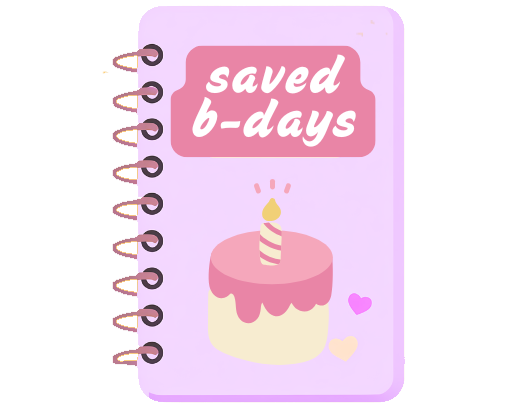
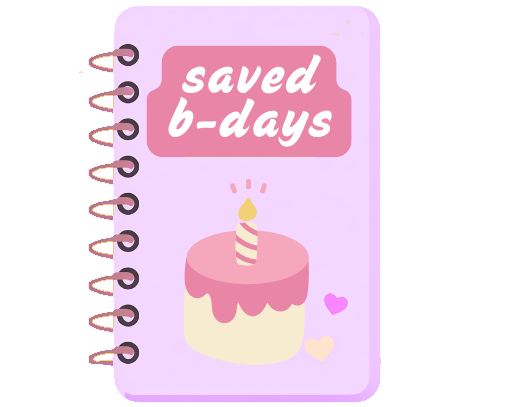
debugging bitmapicon for second-CTKinter window

Changed region(s): [[0.1547, 0.0, 0.8046, 1.0]]

diff --git a/main.py b/main.py
@@ -7,8 +7,9 @@ ver = "0.1.1.12"
 #====================IMPORTS:
 from tkinter import *
 import customtkinter
-from PIL import Image
-from customtkinter import CTkLabel
+#----UIs:
+from PIL import Image, ImageTk
+from customtkinter import CTkLabel, CTkImage
 #----time:
 import datetime as dt
 #----gif:
@@ -158,7 +159,7 @@ day_drop_menu_LABEL.place(x=widgets_x_place+197+x_shift,y=widgets_y_place+430)
 #----
 days_list = [str(day+1) for day in range(0,30)] #list configuration
 #
-day_drop_menu = customtkinter.CTkComboBox(root, values=days_list, state="readonly",text_color="black", width=60, fg_color=widgets_background, button_color="hotpink")
+day_drop_menu = customtkinter.CTkComboBox(root, values=days_list, state="readonly",text_color="black", width=60, fg_color=widgets_background, dropdown_fg_color="pink", dropdown_text_color="black", dropdown_hover_color="white", button_color="hotpink")
 day_drop_menu.set("0")
 day_drop_menu.place(x=widgets_x_place+180+x_shift,y=widgets_y_place+460)
 
@@ -168,7 +169,7 @@ month_drop_menu_LABEL.place(x=widgets_x_place+257+x_shift,y=widgets_y_place+430)
 # #----
 months_list = [str(month+1) for month in range(0,12)] #list configuration
 #
-month_drop_menu = customtkinter.CTkComboBox(root, values=months_list,text_color="black" , state="readonly", width=60, fg_color=widgets_background, button_color="hotpink")
+month_drop_menu = customtkinter.CTkComboBox(root, values=months_list,text_color="black" , state="readonly", width=60, fg_color=widgets_background, dropdown_fg_color="pink", dropdown_text_color="black", dropdown_hover_color="white" , button_color="hotpink")
 month_drop_menu.set("0")
 month_drop_menu.place(x=widgets_x_place+250+x_shift,y=widgets_y_place+460)
 
@@ -369,6 +370,9 @@ def calculate_date_data():
 #====================#====================#====================#==================#==================#==================
 #__________________________________________________SECONDARY WINDOW____________________________________________________#
 b_day_list_window_ON = False
+####
+saved_cake_bitmap = ImageTk.PhotoImage(Image.open("images/saved_cake_bitmap.ico"))
+
 
 def check_dates_list():
     #__________________________________________________
@@ -377,7 +381,7 @@ def check_dates_list():
     b_day_list_window_ON = True  # -->#IMPORTANT SWITCH (to disable click-able & hover images)\\
     # {-} #
     print("DEBUG: B-DAYS-LIST window activated")
-    print(f"LANG PICK WINDOW STATE->>{b_day_list_window_ON}")
+    print(f"NOTEBOOK WINDOW STATE->>{b_day_list_window_ON}")
     b_day_list_button.configure(image=brows_days_b__disabled_image)
     b_day_list_button.configure(state="disabled")
 
@@ -389,13 +393,18 @@ def check_dates_list():
     # ================
     # ================
     check_dates_window = customtkinter.CTkToplevel(root)
-    check_dates_window.iconbitmap("images/saved_cake_bitmap.ico")
+    #
+    #using GLOBAL saved_cake_bitmap
+    global saved_cake_bitmap
+    # check_dates_window.iconbitmap("images/saved_cake_bitmap.ico")
+    check_dates_window.wm_iconphoto(True, saved_cake_bitmap)
+    #
     check_dates_window.attributes("-topmost", True) #--------> TO PLACE IT ON TOP
     #
     check_dates_window.configure(fg_color=BACKGROUND_COLOR)
     #
-    check_dates_window.minsize(500, 400)
-    check_dates_window.maxsize(500, 400)
+    check_dates_window.minsize(400, 600)
+    check_dates_window.maxsize(400, 600)
     check_dates_window.config(padx=20, pady=20)
     # -------------
     check_dates_window.title(f"Saved Birthday Dates :)")
@@ -404,8 +413,10 @@ def check_dates_list():
     # print("<!> WINDOW-2 is top level now <!>")
     # customtkinter.CTkToplevel(master=check_dates_window)
     # ================
-    # ================
-
+    notebook_bg_img = CTkImage(Image.open("images/notebook_bg.png"), size=(400,600))
+    #
+    notebook_bg_widget = CTkLabel(check_dates_window ,text="", image=notebook_bg_img,)
+    notebook_bg_widget.place(x=0,y=0)
 
     #__________________________________________________
     ################## B-DAYS-LIST-WINDOW-OPTIONS END:
@@ -418,7 +429,7 @@ def check_dates_list():
         b_day_list_button.configure(state="normal")
         # {-} #
         print("DEBUG: B-DAYS window IS OFF")
-        print(f"LANG PICK WINDOW STATE->>{b_day_list_window_ON}")
+        print(f"NOTEBOOK WINDOW STATE->>{b_day_list_window_ON}")
         #
         check_dates_window.destroy()  # Explicitly close the window
 
@@ -430,7 +441,7 @@ def check_dates_list():
 
 
 #_________________________OPEN WINDOW-2 (Birthdays List) BUTTON____________________________\\
-#0000-Switch-Lang Button
+#0000-Switch-NOTEBOOK Button
 browse_bdays_x_displace = 250
 browse_bdays_y_displace = 230
 
@@ -440,15 +451,14 @@ browse_bdays_list__l.place(x=buttons_x_displacement+browse_bdays_x_displace+136,
 
 ####-------------------------BUTTON-ART / IMAGES
 bbdays_img_width = 200
-bbdays_img_heigh = 120
+bbdays_img_heigh = 140
 brows_days_b__norm_image = customtkinter.CTkImage(light_image=Image.open("images/bday_list_norm.png"),size=(bbdays_img_width+20, bbdays_img_heigh))
 brows_days_b__hover_in_image = customtkinter.CTkImage(light_image=Image.open("images/bday_list_hover.png"),size=(bbdays_img_width, bbdays_img_heigh))
 brows_days_b__clicked_image = customtkinter.CTkImage(light_image=Image.open("images/bday_list_clicked.png"),size=(bbdays_img_width, bbdays_img_heigh))
 brows_days_b__disabled_image = customtkinter.CTkImage(light_image=Image.open("images/bday_list_viewing.png"),size=(bbdays_img_width,bbdays_img_heigh))
 
 ####-------------------------BUTTON-MAIN-FUNCTIONS
-# def switchL_button_event():
-#----------------------------->THE MAIN FUNCTION OF THIS BUTTON ISS GETTING A NEW CARD ->  pick_language()
+# are moved above!->  to open notebook window
 
 ####-------------------------BUTTON-CONSTRUCTION Widget
 b_day_list_button = customtkinter.CTkButton(root, image=brows_days_b__norm_image , text="", height=50, width=150,command=check_dates_list, fg_color="transparent",border_width=0, hover=False)
